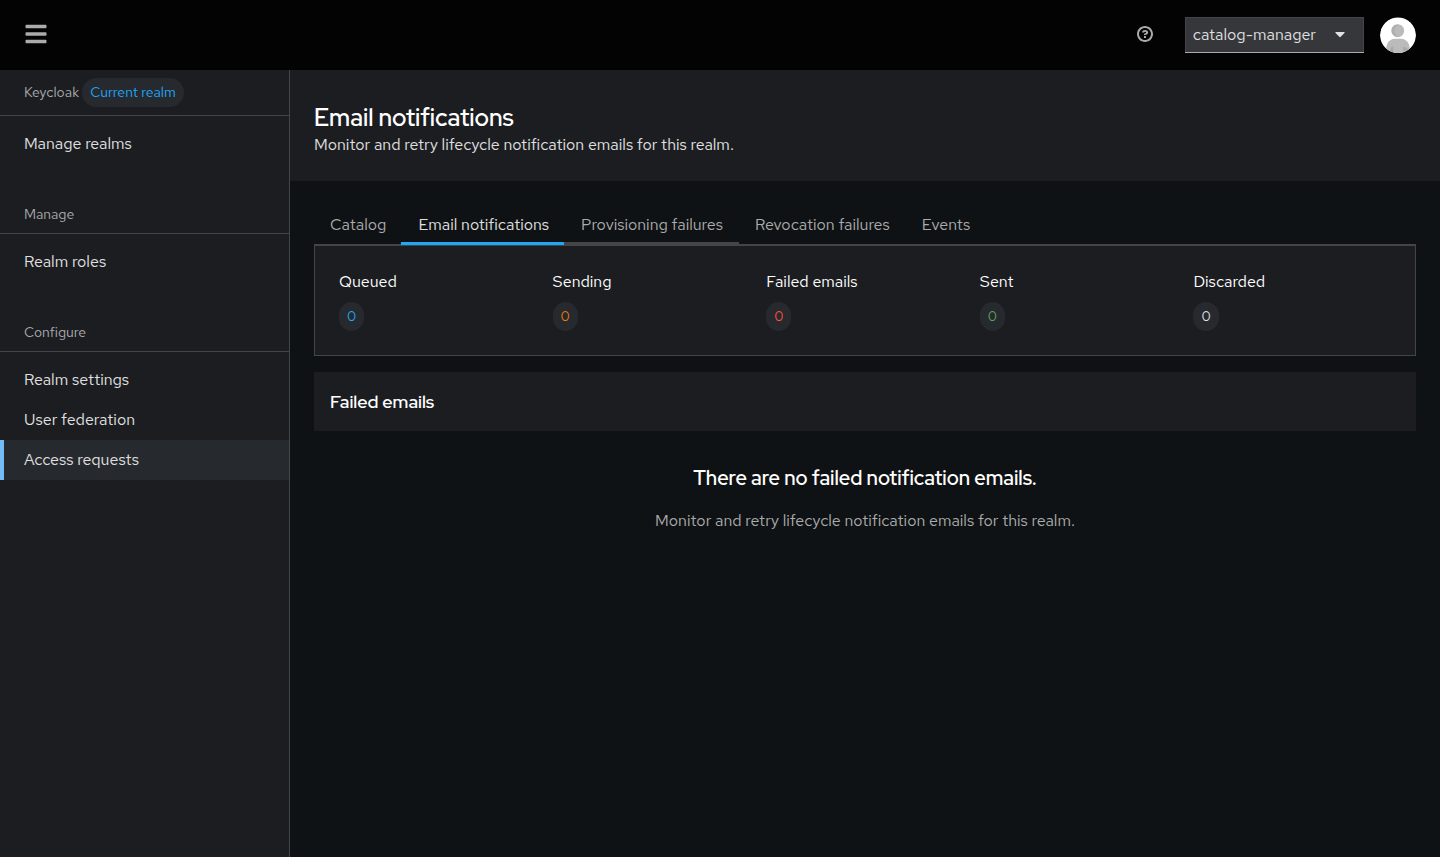
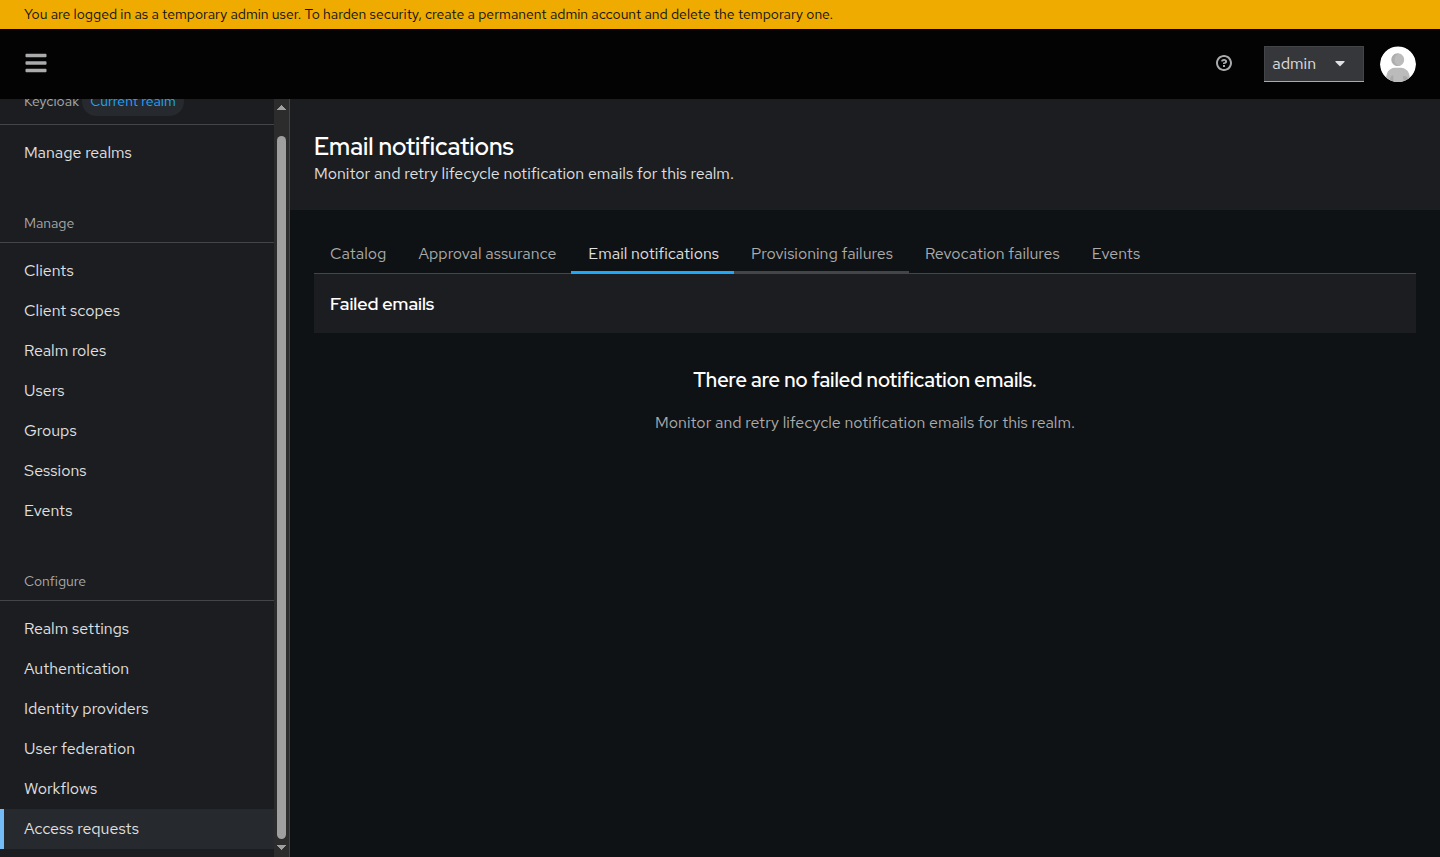
fix(notifications): count recipient emails and simplify admin view

diff --git a/themes/access-requests-ui/src/admin/pages/NotificationDeliveryPage.test.tsx b/themes/access-requests-ui/src/admin/pages/NotificationDeliveryPage.test.tsx
@@ -36,22 +36,17 @@ await i18n.init({
                 accessRequestsAdminNotAvailable: "Not available",
                 accessRequestsAdminNotificationDelivery: "Notification delivery",
                 accessRequestsAdminNotificationDeliveryAttempts: "Attempts",
-                accessRequestsAdminNotificationDeliveryDelivered: "Delivered",
                 accessRequestsAdminNotificationDeliveryDescription: "Monitor delivery.",
-                accessRequestsAdminNotificationDeliveryDiscarded: "Discarded",
                 accessRequestsAdminNotificationDeliveryEmpty: "No failed deliveries.",
                 accessRequestsAdminNotificationDeliveryEntitlementId: "Entitlement ID",
                 accessRequestsAdminNotificationDeliveryFailed: "Failed deliveries",
                 accessRequestsAdminNotificationDeliveryLastAttempt: "Last attempt",
-                accessRequestsAdminNotificationDeliveryPending: "Pending",
-                accessRequestsAdminNotificationDeliveryProcessing: "Processing",
                 accessRequestsAdminNotificationDeliveryRecipient: "Recipient",
                 accessRequestsAdminNotificationDeliveryRecipientType: "Recipient type",
                 accessRequestsAdminNotificationDeliveryRequestId: "Request",
                 accessRequestsAdminNotificationDeliveryRetry: "Retry delivery",
                 accessRequestsAdminNotificationDeliveryRetryDescription: "The delivery will return to the queue.",
                 accessRequestsAdminNotificationDeliveryRetryQueued: "Notification delivery queued for retry.",
-                accessRequestsAdminNotificationDeliverySummary: "Delivery status",
                 accessRequestsAdminNotificationTypeProvisioningFailed: "Provisioning failed",
                 accessRequestsAdminNotificationRecipientTypeRealmRole: "Realm role",
                 accessRequestsAdminNotificationRecipientTypeUser: "User",
@@ -113,18 +108,13 @@ describe("NotificationDeliveryPage", () => {
         mocks.api.retryNotificationDelivery.mockReset().mockResolvedValue(undefined);
     });
 
-    it("shows operational counts, preserves the failed delivery metadata, and requeues after confirmation", async () => {
+    it("focuses on actionable failed deliveries without displaying misleading email totals", async () => {
         renderPage();
 
         expect(await screen.findByText("Request submitted")).toBeInTheDocument();
-        expect(screen.getByText("3")).toBeInTheDocument();
         expect(screen.getByText("10")).toBeInTheDocument();
-        const summary = screen.getByRole("group", { name: "Delivery status" });
-        expect(summary).toHaveClass("access-requests-delivery-summary");
-        expect(summary.querySelectorAll(".access-requests-delivery-summary__item")).toHaveLength(5);
-        for (const label of ["Pending", "Processing", "Failed deliveries", "Delivered", "Discarded"]) {
-            expect(within(summary).getByText(label)).toBeVisible();
-        }
+        expect(screen.queryByRole("group", { name: "Delivery status" })).not.toBeInTheDocument();
+        expect(mocks.api.notificationDeliverySummary).not.toHaveBeenCalled();
 
         fireEvent.click(screen.getByRole("button", { name: "Retry delivery" }));
         const dialog = await screen.findByRole("dialog", { name: "Retry delivery" });
@@ -135,18 +125,13 @@ describe("NotificationDeliveryPage", () => {
         await waitFor(() => expect(mocks.api.notificationDeliveries).toHaveBeenCalledTimes(2));
     });
 
-    it("keeps the newest delivery page and summary when an older response finishes last", async () => {
+    it("keeps the newest delivery page when an older response finishes last", async () => {
         const olderDeliveries = deferred<{ items: typeof failedDelivery[]; total: number }>();
-        const olderSummary = deferred<{ pending: number; processing: number; failed: number; delivered: number; discarded: number }>();
         mocks.api.notificationDeliveries.mockReset()
             .mockResolvedValueOnce({ items: [failedDelivery], total: 40 })
             .mockReturnValueOnce(olderDeliveries.promise)
             .mockResolvedValueOnce({ items: [{ ...failedDelivery, id: "delivery-current", requestId: "request-current",
                 requestName: "Current access" }], total: 40 });
-        mocks.api.notificationDeliverySummary.mockReset()
-            .mockResolvedValueOnce({ pending: 3, processing: 1, failed: 1, delivered: 8, discarded: 2 })
-            .mockReturnValueOnce(olderSummary.promise)
-            .mockResolvedValueOnce({ pending: 17, processing: 1, failed: 1, delivered: 8, discarded: 2 });
         renderPage();
 
         await screen.findByText("Request: Finance access");
@@ -154,16 +139,13 @@ describe("NotificationDeliveryPage", () => {
         await waitFor(() => expect(mocks.api.notificationDeliveries).toHaveBeenCalledWith({ page: 1, size: 20 }));
         fireEvent.click(screen.getAllByRole("button", { name: "Go to previous page" })[0]);
         expect(await screen.findByText("Request: Current access")).toBeVisible();
-        expect(screen.getByText("17")).toBeVisible();
 
         await act(async () => {
-            olderSummary.resolve({ pending: 99, processing: 1, failed: 1, delivered: 8, discarded: 2 });
             olderDeliveries.resolve({ items: [{ ...failedDelivery, id: "delivery-stale", requestId: "request-stale" }], total: 40 });
         });
         expect(screen.getByText("Request: Current access")).toBeVisible();
-        expect(screen.getByText("17")).toBeVisible();
         expect(screen.queryByText("Request: Stale access")).not.toBeInTheDocument();
-        expect(screen.queryByText("99")).not.toBeInTheDocument();
+        expect(mocks.api.notificationDeliverySummary).not.toHaveBeenCalled();
     });
 
     it("hides previous-page deliveries and retry actions while the next page loads", async () => {

diff --git a/themes/access-requests-ui/src/admin/pages/NotificationDeliveryPage.tsx b/themes/access-requests-ui/src/admin/pages/NotificationDeliveryPage.tsx
@@ -33,12 +33,10 @@ import { useTranslation } from "react-i18next";
 
 import {
     presentEntitlementsAdminError,
-    type NotificationDelivery,
-    type NotificationDeliverySummary
+    type NotificationDelivery
 } from "../api/EntitlementsAdminApi";
 import { useEntitlementsAdminApi } from "../api/useEntitlementsAdminApi";
 import { AccessRequestsAdminTabs } from "./AccessRequestsAdminTabs";
-import "./NotificationDeliveryPage.css";
 
 const PAGE_SIZE_OPTIONS = [10, 20, 50].map((value) => ({ title: String(value), value }));
 
@@ -46,7 +44,6 @@ export function NotificationDeliveryPage() {
     const { t } = useTranslation();
     const api = useEntitlementsAdminApi();
     const [deliveries, setDeliveries] = useState<{ items: NotificationDelivery[]; total: number; page: number; size: number }>();
-    const [summary, setSummary] = useState<NotificationDeliverySummary>();
     const [page, setPage] = useState(0);
     const [size, setSize] = useState(20);
     const [loading, setLoading] = useState(true);
@@ -62,12 +59,8 @@ export function NotificationDeliveryPage() {
         setLoading(true);
         setRefreshError(undefined);
         try {
-            const [nextSummary, failedDeliveries] = await Promise.all([
-                api.notificationDeliverySummary(),
-                api.notificationDeliveries({ page, size })
-            ]);
+            const failedDeliveries = await api.notificationDeliveries({ page, size });
             if (loadId === latestLoad.current) {
-                setSummary(nextSummary);
                 setDeliveries({ items: failedDeliveries.items, total: failedDeliveries.total, page, size });
             }
         } catch (error) {
@@ -145,7 +138,6 @@ export function NotificationDeliveryPage() {
                         className="pf-v5-u-mb-lg"
                     />
                 )}
-                {summary && <DeliverySummary summary={summary} />}
                 <Toolbar aria-label={t("accessRequestsAdminNotificationDelivery")}>
                     <ToolbarContent>
                         <ToolbarItem>
@@ -206,29 +198,6 @@ export function NotificationDeliveryPage() {
                 />
             )}
         </>
-    );
-}
-
-function DeliverySummary({ summary }: { summary: NotificationDeliverySummary }) {
-    const { t } = useTranslation();
-    const statuses = [
-        { key: "pending", label: t("accessRequestsAdminNotificationDeliveryPending"), count: summary.pending, color: "blue" },
-        { key: "processing", label: t("accessRequestsAdminNotificationDeliveryProcessing"), count: summary.processing, color: "orange" },
-        { key: "failed", label: t("accessRequestsAdminNotificationDeliveryFailed"), count: summary.failed, color: "red" },
-        { key: "delivered", label: t("accessRequestsAdminNotificationDeliveryDelivered"), count: summary.delivered, color: "green" },
-        { key: "discarded", label: t("accessRequestsAdminNotificationDeliveryDiscarded"), count: summary.discarded, color: "grey" }
-    ] as const;
-
-    return (
-        <div aria-label={t("accessRequestsAdminNotificationDeliverySummary")}
-            className="access-requests-delivery-summary" role="group">
-            {statuses.map((status) => (
-                <div className="access-requests-delivery-summary__item" key={status.key}>
-                    <span>{status.label}</span>
-                    <Label color={status.color}>{status.count}</Label>
-                </div>
-            ))}
-        </div>
     );
 }
 

diff --git a/themes/access-requests-ui/src/admin/i18n.test.ts b/themes/access-requests-ui/src/admin/i18n.test.ts
@@ -230,22 +230,17 @@ const expectedMessageKeys = [
     "accessRequestsAdminProvisioningFailed",
     "accessRequestsAdminNotificationDelivery",
     "accessRequestsAdminNotificationDeliveryAttempts",
-    "accessRequestsAdminNotificationDeliveryDelivered",
     "accessRequestsAdminNotificationDeliveryDescription",
-    "accessRequestsAdminNotificationDeliveryDiscarded",
     "accessRequestsAdminNotificationDeliveryEmpty",
     "accessRequestsAdminNotificationDeliveryEntitlementId",
     "accessRequestsAdminNotificationDeliveryFailed",
     "accessRequestsAdminNotificationDeliveryLastAttempt",
-    "accessRequestsAdminNotificationDeliveryPending",
-    "accessRequestsAdminNotificationDeliveryProcessing",
     "accessRequestsAdminNotificationDeliveryRecipient",
     "accessRequestsAdminNotificationDeliveryRecipientType",
     "accessRequestsAdminNotificationDeliveryRequestId",
     "accessRequestsAdminNotificationDeliveryRetry",
     "accessRequestsAdminNotificationDeliveryRetryDescription",
     "accessRequestsAdminNotificationDeliveryRetryQueued",
-    "accessRequestsAdminNotificationDeliverySummary",
     "accessRequestsAdminNotificationTypeProvisioningFailed",
     "accessRequestsAdminNotificationTypeProvisioningClosed",
     "accessRequestsAdminNotificationTypeRequestApproved",

diff --git a/src/test/java/ch/anass/keycloak/accessrequests/persistence/jpa/repository/JpaAccessRequestNotificationOutboxRepositoryTest.java b/src/test/java/ch/anass/keycloak/accessrequests/persistence/jpa/repository/JpaAccessRequestNotificationOutboxRepositoryTest.java
@@ -272,6 +272,37 @@ class JpaAccessRequestNotificationOutboxRepositoryTest {
     }
 
     @Test
+    void summaryCountsRecipientEmailsButNotCompletedRoleExpansionInstructions() {
+        Instant queuedAt = Instant.parse("2026-09-22T10:00:00Z");
+        try (EntityManager entityManager = entityManagerFactory.createEntityManager()) {
+            entityManager.getTransaction().begin();
+            JpaAccessRequestNotificationOutboxRepository outbox =
+                    new JpaAccessRequestNotificationOutboxRepository(entityManager);
+            outbox.enqueue(notification(), AccessRequestNotificationRecipientType.REALM_ROLE,
+                    "approver-role", queuedAt);
+            outbox.enqueue(notification(), AccessRequestNotificationRecipientType.REALM_ROLE,
+                    "missing-approver-role", queuedAt);
+            outbox.enqueue(notification(), AccessRequestNotificationRecipientType.USER,
+                    "approver-1", queuedAt);
+            outbox.enqueue(notification(), AccessRequestNotificationRecipientType.USER,
+                    "approver-2", queuedAt);
+            for (AccessRequestNotificationOutboxEntity entry : outbox.claimDue(
+                    queuedAt, Duration.ofMinutes(5), "processor-1", 4)) {
+                if (entry.recipientId().equals("approver-role") || entry.recipientId().equals("approver-1")) {
+                    outbox.markDelivered(entry.id(), "processor-1", queuedAt.plusSeconds(1));
+                } else {
+                    outbox.markFailed(entry.id(), "processor-1", queuedAt.plusSeconds(1), 1);
+                }
+            }
+            assertEquals(new JpaAccessRequestNotificationOutboxRepository.NotificationOutboxSummary(
+                    0, 0, 1, 0, 1), outbox.summarize("realm-1"));
+            assertEquals(2, outbox.findFailed("realm-1", 0, 20).total(),
+                    "Failed role expansion must remain actionable even though it is not an e-mail.");
+            entityManager.getTransaction().commit();
+        }
+    }
+
+    @Test
     void requeuesOnlyTerminalFailuresWithANewRetryBudget() {
         Instant queuedAt = Instant.parse("2026-09-22T10:00:00Z");
         String failedDeliveryId;

diff --git a/src/main/java/ch/anass/keycloak/accessrequests/persistence/jpa/repository/JpaAccessRequestNotificationOutboxRepository.java b/src/main/java/ch/anass/keycloak/accessrequests/persistence/jpa/repository/JpaAccessRequestNotificationOutboxRepository.java
@@ -171,8 +171,8 @@ public final class JpaAccessRequestNotificationOutboxRepository {
     }
 
     /**
-     * Produces low-cardinality operational counts for one realm. These values are intentionally suitable for
-     * the administration view and for an authenticated monitoring poller.
+     * Counts recipient e-mail deliveries, not role fan-out instructions. A completed role instruction queues
+     * individual recipient rows but does not itself send an e-mail.
      */
     public NotificationOutboxSummary summarize(String realmId) {
         String requiredRealmId = requireRealmId(realmId);
@@ -185,9 +185,11 @@ public final class JpaAccessRequestNotificationOutboxRepository {
                         select entry.state, count(entry)
                           from AccessRequestNotificationOutboxEntity entry
                          where entry.realmId = :realmId
+                           and entry.recipientType = :recipientType
                          group by entry.state
                         """, Object[].class)
                 .setParameter("realmId", requiredRealmId)
+                .setParameter("recipientType", AccessRequestNotificationRecipientType.USER)
                 .getResultList()
                 .forEach(row -> counts.put((AccessRequestNotificationOutboxState) row[0], (Long) row[1]));
         return new NotificationOutboxSummary(

diff --git a/src/test/java/ch/anass/keycloak/accessrequests/ui/AccessRequestAdminConsoleBrowserIT.java b/src/test/java/ch/anass/keycloak/accessrequests/ui/AccessRequestAdminConsoleBrowserIT.java
@@ -866,7 +866,10 @@ class AccessRequestAdminConsoleBrowserIT {
                 assertPageHeading(driver, "Email notifications");
                 waitFor(driver).until(ExpectedConditions.visibilityOfElementLocated(By.xpath(
                         "//h2[normalize-space()='There are no failed notification emails.']")));
-                assertApiRequestStatus(driver, "/access-requests/admin/notification-deliveries/summary", 200);
+                assertApiRequestStatus(driver, "/access-requests/admin/notification-deliveries?page=", 200);
+                assertTrue(apiRequests(driver).stream().noneMatch(request ->
+                                ((String) request.get("url")).contains("/notification-deliveries/summary")),
+                        "The failure worklist should not fetch or display aggregate e-mail counters.");
                 AccessRequestBrowserScreenshots.capture(driver,
                         darkMode ? "admin-email-notifications-dark" : "admin-email-notifications-light");
 

diff --git a/src/test/java/ch/anass/keycloak/accessrequests/spi/notification/KeycloakAccessRequestEmailDeliveryIT.java b/src/test/java/ch/anass/keycloak/accessrequests/spi/notification/KeycloakAccessRequestEmailDeliveryIT.java
@@ -146,6 +146,14 @@ class KeycloakAccessRequestEmailDeliveryIT {
                     "Une nouvelle demande d’accès a été soumise.",
                     "I need read-only finance reports.",
                     "Approved Finance Reports");
+            HttpResponse<String> deliverySummary = HTTP_CLIENT.send(
+                    adminRequest(keycloak,
+                            "/realms/master/access-requests/admin/notification-deliveries/summary",
+                            adminToken).GET().build(),
+                    HttpResponse.BodyHandlers.ofString());
+            assertEquals(200, deliverySummary.statusCode(), deliverySummary.body());
+            assertEquals(2, JSON.readTree(deliverySummary.body()).path("delivered").asInt(),
+                    "Completed role fan-out is not a third email in Mailpit.");
             approve(keycloak, approver.token(), approvedRequestId);
             assertDeliveredMessage(
                     approvedRequester.email(),

diff --git a/doc/api.md b/doc/api.md
@@ -263,8 +263,8 @@ The notification endpoints are realm-scoped and require Keycloak administrator a
 
 | Method | Path | Purpose |
 | --- | --- | --- |
-| GET | /admin/notification-deliveries | List failed lifecycle e-mail deliveries |
-| GET | /admin/notification-deliveries/summary | Return low-cardinality delivery counts by state |
+| GET | /admin/notification-deliveries | List failed e-mail deliveries and role-recipient expansion jobs |
+| GET | /admin/notification-deliveries/summary | Return recipient e-mail delivery counts by state |
 | POST | /admin/notification-deliveries/{deliveryId}/retry | Put one failed delivery back in the retry queue |
 
 The delivery list accepts the standard page and size parameters (default 0 and 20, maximum
@@ -273,9 +273,13 @@ identifier, notification type, attempt count, and last-attempt time. It never re
 e-mail address.
 
 The summary returns the fixed set of counters pending, processing, delivered, discarded, and
-failed. These are intentionally low-cardinality operational metrics: they are safe to render in
-the Admin Console or poll with an authenticated monitoring client. They are distinct from
-Keycloak's platform management metrics endpoint.
+failed for individual `USER` recipient rows only. A `REALM_ROLE` row merely expands a role into
+recipient deliveries: completing it does not send an additional e-mail and is never included in
+these counters. Role-expansion failures remain visible in the failed-delivery list for retry.
+`delivered` means the SMTP sender reported success, not that a recipient received or read the
+message. Mailpit counts can also differ if messages are deleted or retained for a different
+period. These low-cardinality counters are available to authenticated monitoring clients, but
+the Admin Console focuses on actionable failures rather than displaying aggregate totals.
 
 The retry operation returns 204 No Content when it atomically requeues a row that remains FAILED.
 Its attempt budget is reset so the worker can make up to ten new attempts. It returns 404 Not Found

diff --git a/doc/configuration.md b/doc/configuration.md
@@ -35,10 +35,11 @@ E-mail delivery is configured independently for every realm. Deploying the provi
 
 Keycloak resolves e-mail templates from the realm's selected e-mail theme and its single parent chain; it has no automatic multi-theme composition. The selected theme must therefore expose the four access-request HTML/text templates and their message keys. If the template integration or SMTP configuration is missing, the access-request transaction still succeeds: the notification outbox retries delivery in the background and eventually records the entry as `FAILED`. Use the Email notifications tab to inspect and replay failed deliveries; Keycloak logs remain the source for delivery error diagnostics.
 
-Use **Access requests → Email notifications** in the bundled Admin Console to see fixed
-delivery-state counters, inspect failed rows without exposing recipient e-mail addresses, and
-manually requeue a failed delivery. The same information is available to an authenticated
-monitoring client through GET /admin/notification-deliveries/summary. Keycloak's own management
+Use **Access requests → Email notifications** in the bundled Admin Console to inspect and retry
+failed e-mail deliveries and role-recipient expansion jobs without exposing recipient e-mail
+addresses. The page omits aggregate counters so operators can focus on actionable failures.
+An authenticated monitoring client can use GET /admin/notification-deliveries/summary for
+individual recipient-delivery counts; completed role expansion is not an e-mail. Keycloak's own management
 metrics remain configured separately with --metrics-enabled=true; the extension does not rely on
 an internal Keycloak metrics SPI.
 

diff --git a/doc/screenshots/README.md b/doc/screenshots/README.md
@@ -10,7 +10,7 @@ These images are captured in a browser against Keycloak with the built extension
 | Admin · Catalog | [Empty](admin-catalog-empty-light.png) | [Light](admin-catalog-light.png), [dark](admin-catalog-dark.png) |
 | Admin · Approval assurance | — | [Light](admin-approval-assurance-light.png), [dark](admin-approval-assurance-dark.png) |
 | Admin · Provisioning failures | [Open, empty](admin-failed-provisioning-light.png), [closed, empty](admin-provisioning-failures-closed-empty-light.png) | [Open failure](admin-provisioning-failures-filled-light.png), [closed failure](admin-provisioning-failures-closed-light.png) |
-| Admin · Email notifications | [Light](admin-email-notifications-light.png), [dark](admin-email-notifications-dark.png) | [Summary and failed deliveries](admin-email-notifications-filled-light.png) |
+| Admin · Email notifications | [Light](admin-email-notifications-light.png), [dark](admin-email-notifications-dark.png) | [Failed deliveries](admin-email-notifications-filled-light.png) |
 | Admin · Revocation failures | [Open, empty](admin-revocation-failures-light.png), [open, dark](admin-revocation-failures-dark.png), [resolved, empty](admin-revocation-failures-resolved-empty-light.png) | [Open incident](admin-revocation-failures-filled-light.png), [resolved incident](admin-revocation-failures-resolved-filled-light.png) |
 | Admin · Events | [Empty search](admin-events-light.png) | [Event history](admin-events-filled-light.png), [request details](workflow-admin-request-history.png) |
 
